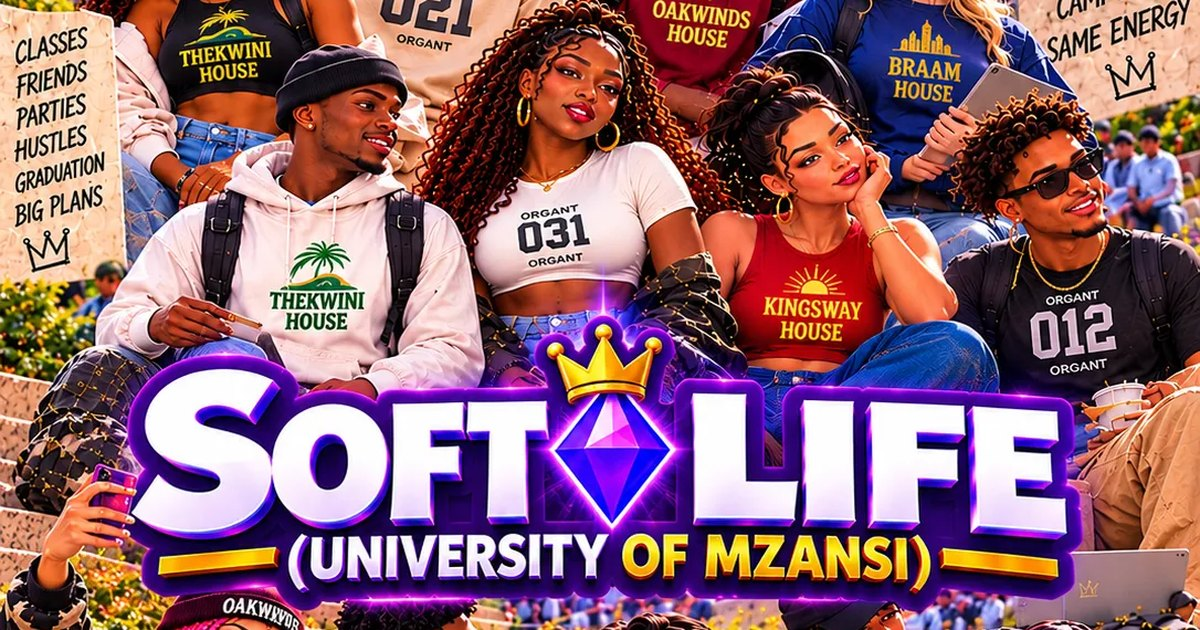
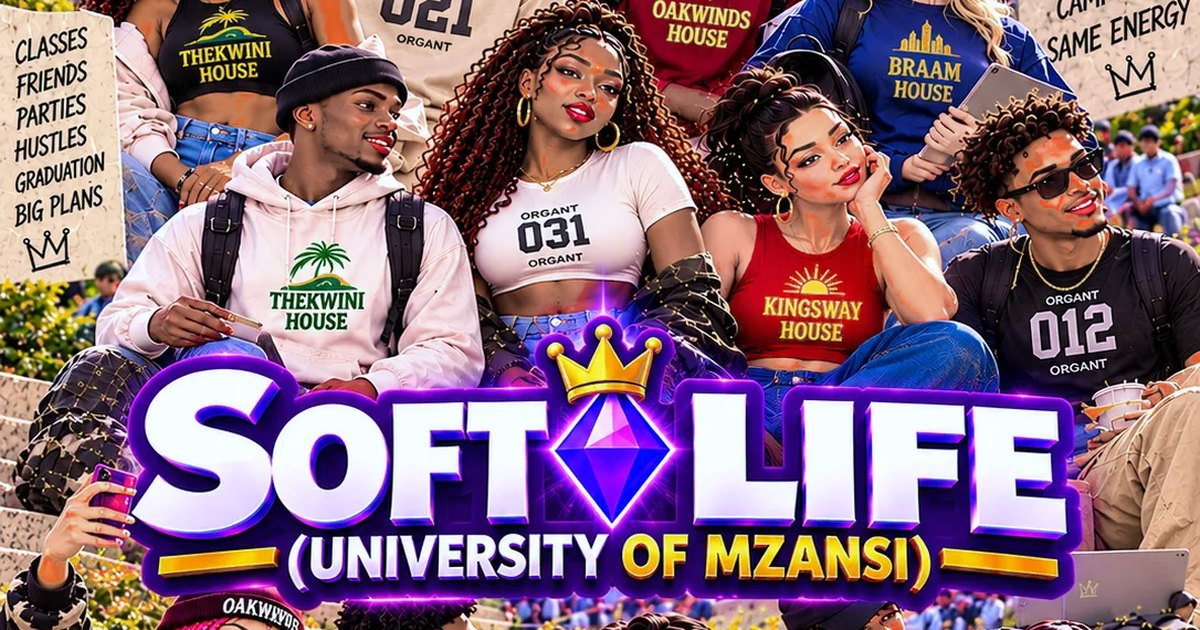
Poster: natural skin tones, no more orange faces
Only the orange/skin hues lose a third of their saturation and turn a little browner, with a
slightly cooler white balance; house colours (the Kingsway banner, logos) and every other hue
are left alone. scripts/poster-tone.py makes it from the original poster; cover.webp,
cover.jpg and share.jpg are rebuilt from the result.

diff --git a/scripts/poster-tone.py b/scripts/poster-tone.py
@@ -1,0 +1,44 @@
+# Usage: python -I scripts/poster-tone.py <poster> <out.png> <compare.jpg>  (then cover.webp/cover.jpg/share.jpg are made from out.png)
+# Poster tone: less orange skin. Only the orange/skin hues lose saturation and turn a little
+# browner; then a slight cool white balance. Purples, blues and greens are left alone.
+import sys
+import site
+sys.path.insert(0, site.getusersitepackages())  # (python -I skips the user site, where Pillow and numpy live)
+import numpy as np
+from PIL import Image
+src, out, cmp_out = sys.argv[1], sys.argv[2], sys.argv[3]
+im = Image.open(src).convert('RGB')
+hsv = np.asarray(im.convert('HSV')).astype(np.float32)
+h = hsv[..., 0] * 360 / 255
+s = hsv[..., 1] / 255
+v = hsv[..., 2] / 255
+def ramp(x, a, b):
+    t = np.clip((x - a) / (b - a), 0, 1)
+    return t * t * (3 - 2 * t)
+# orange band: full strength 8-38 deg, fading out by 0 and 55 deg
+w = ramp(h, 0, 8) * (1 - ramp(h, 38, 55))
+w *= ramp(s, 0.18, 0.4)  # only coloured pixels, not near-greys
+# keep house colours: very bright, very saturated oranges are banners and logos, not skin
+w *= 1 - ramp(v, 0.8, 0.9) * ramp(s, 0.68, 0.82)
+# and the Kingsway banner itself (orange and black), top right of the poster
+Hh, Ww = h.shape
+ys, xs = np.mgrid[0:Hh, 0:Ww]
+w *= 1 - ((xs > Ww * 0.865) & (ys < Hh * 0.17))
+s2 = s * (1 - 0.34 * w)
+h2 = h + 4.0 * w  # red-orange -> brown
+v2 = v * (1 - 0.03 * w)
+hsv2 = np.stack([(h2 % 360) * 255 / 360, s2 * 255, v2 * 255], -1).clip(0, 255).astype(np.uint8)
+rgb = np.asarray(Image.fromarray(hsv2, 'HSV').convert('RGB')).astype(np.float32)
+# a slightly cooler white balance overall
+rgb[..., 0] *= 0.975
+rgb[..., 2] *= 1.03
+fixed = Image.fromarray(rgb.clip(0, 255).astype(np.uint8), 'RGB')
+fixed.save(out, 'PNG')
+a = np.asarray(fixed).astype(float)
+for name, (x, y) in {'031 girl': (590, 470), 'top-left girl': (180, 300), 'kingsway girl': (790, 560)}.items():
+    print(name, a[y:y+20, x:x+20].reshape(-1, 3).mean(0).round(0))
+# before | after, for a look
+W, H = im.size
+both = Image.new('RGB', (W * 2 + 12, H), (20, 20, 20))
+both.paste(im, (0, 0)); both.paste(fixed, (W + 12, 0))
+both.resize(((W * 2 + 12) // 2, H // 2), Image.LANCZOS).save(cmp_out, 'JPEG', quality=88)
